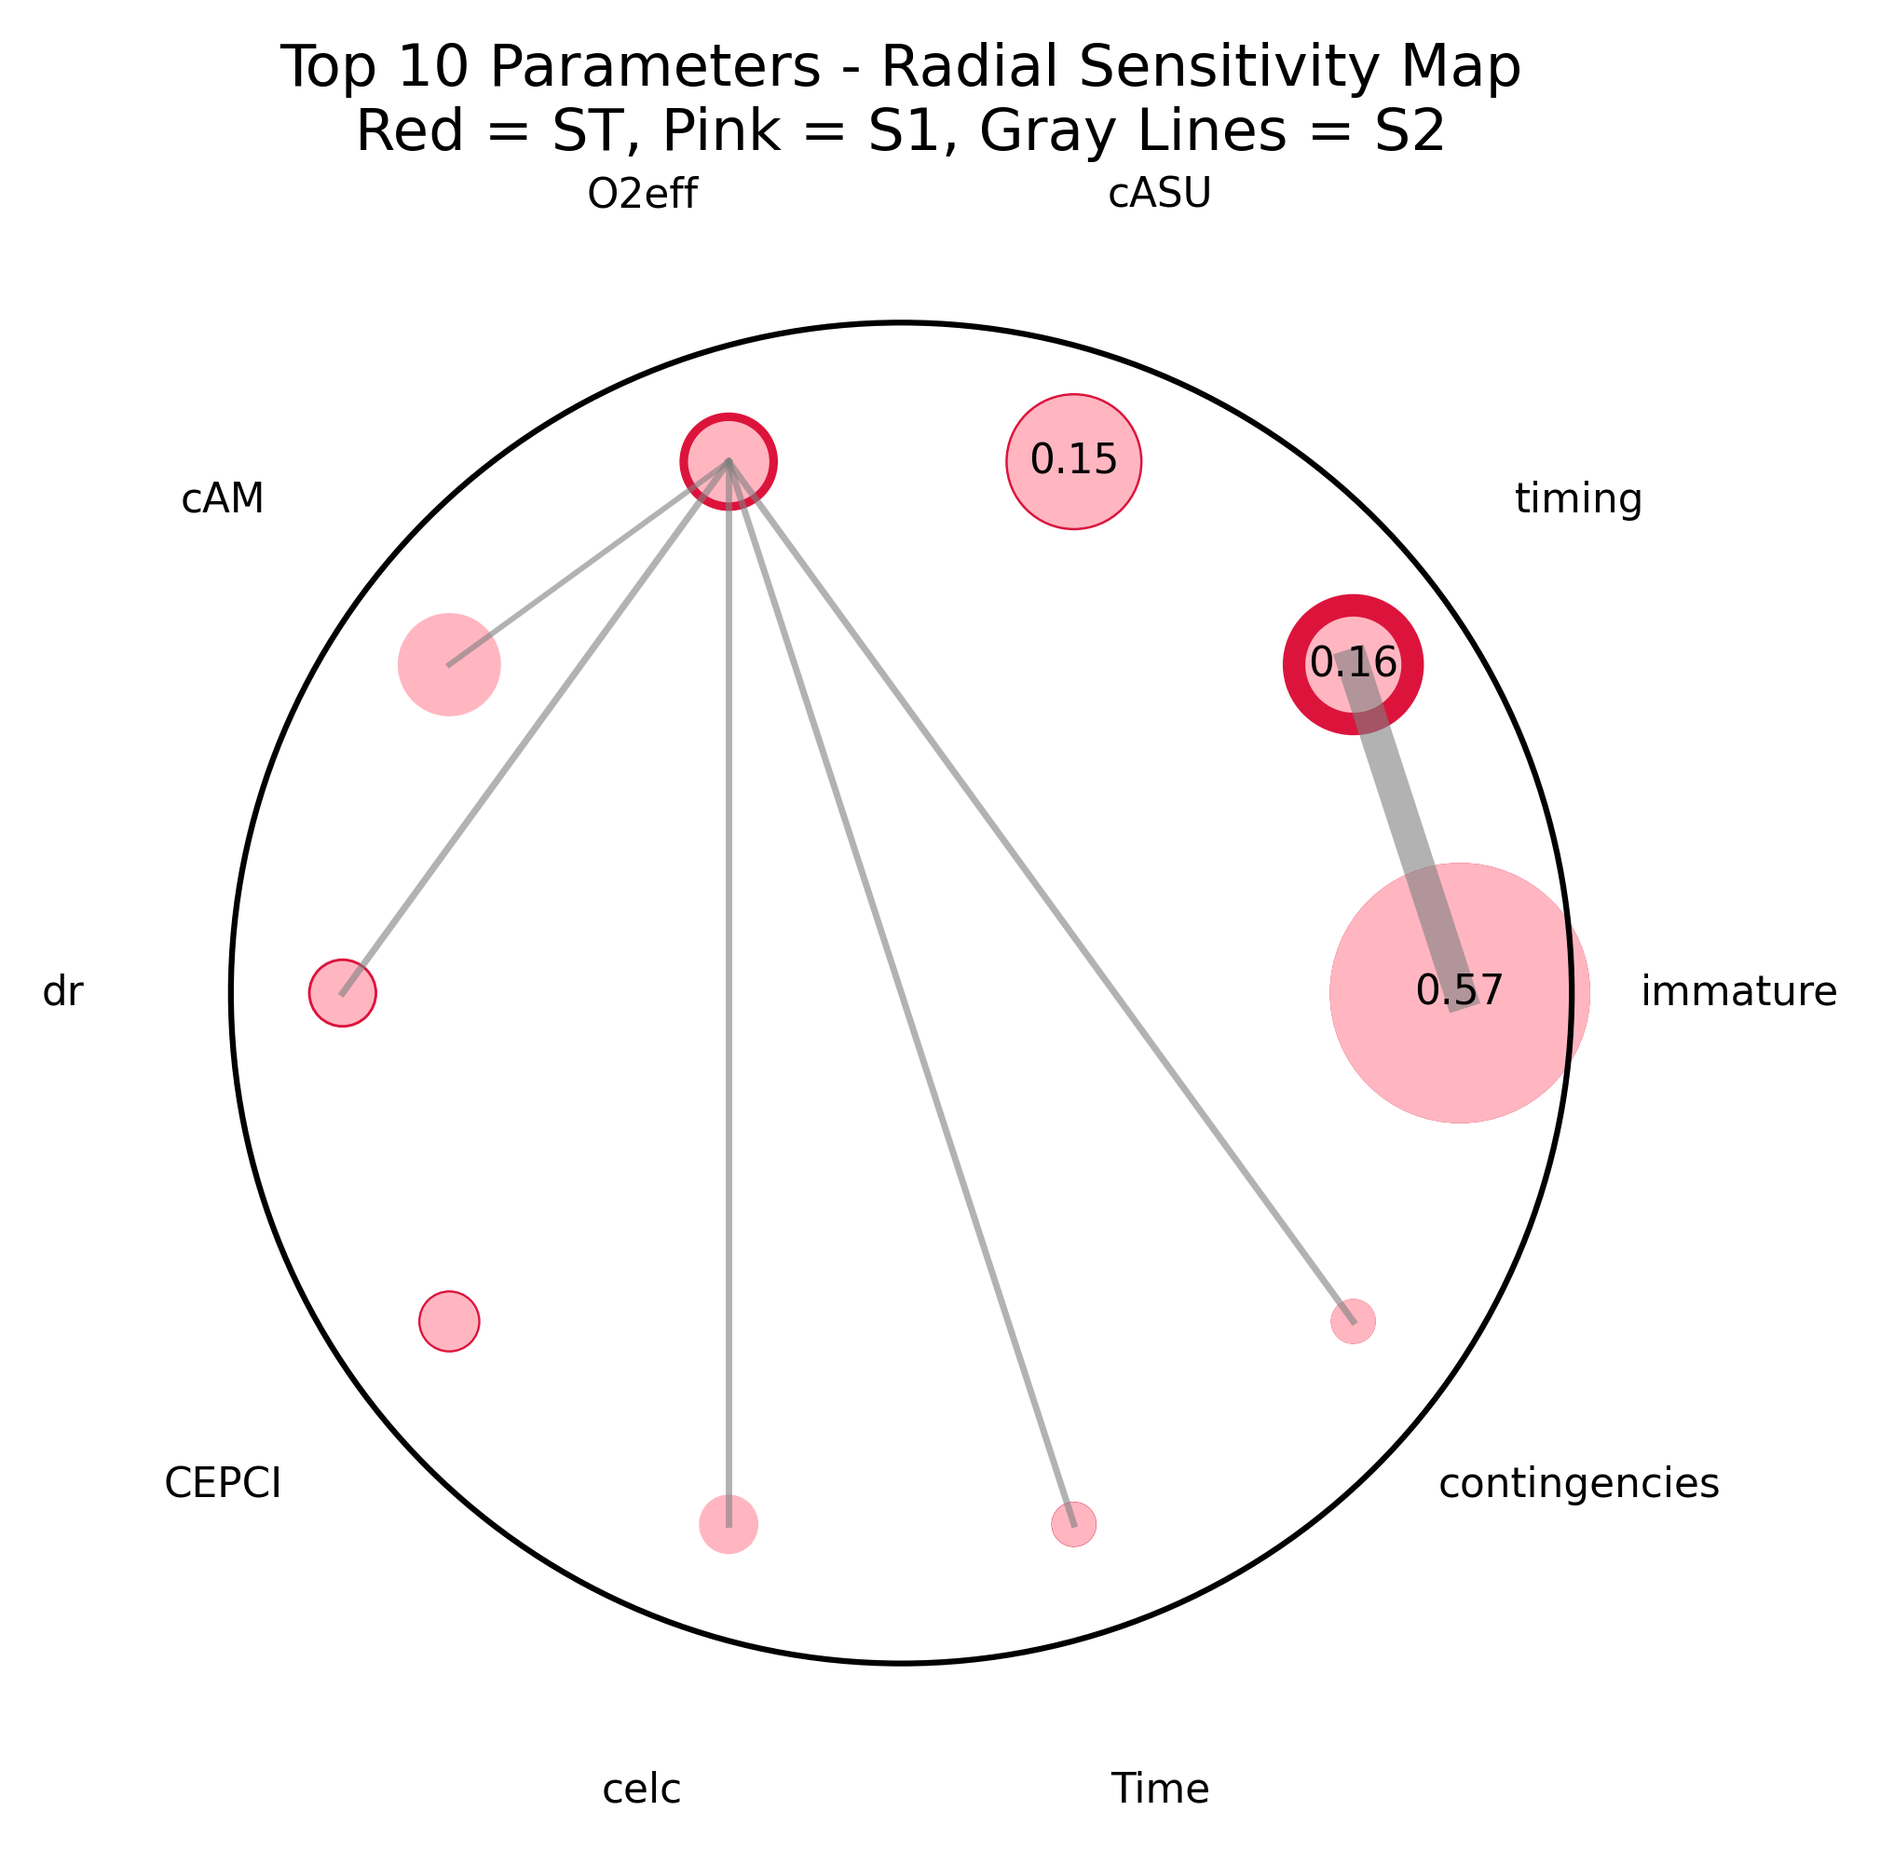
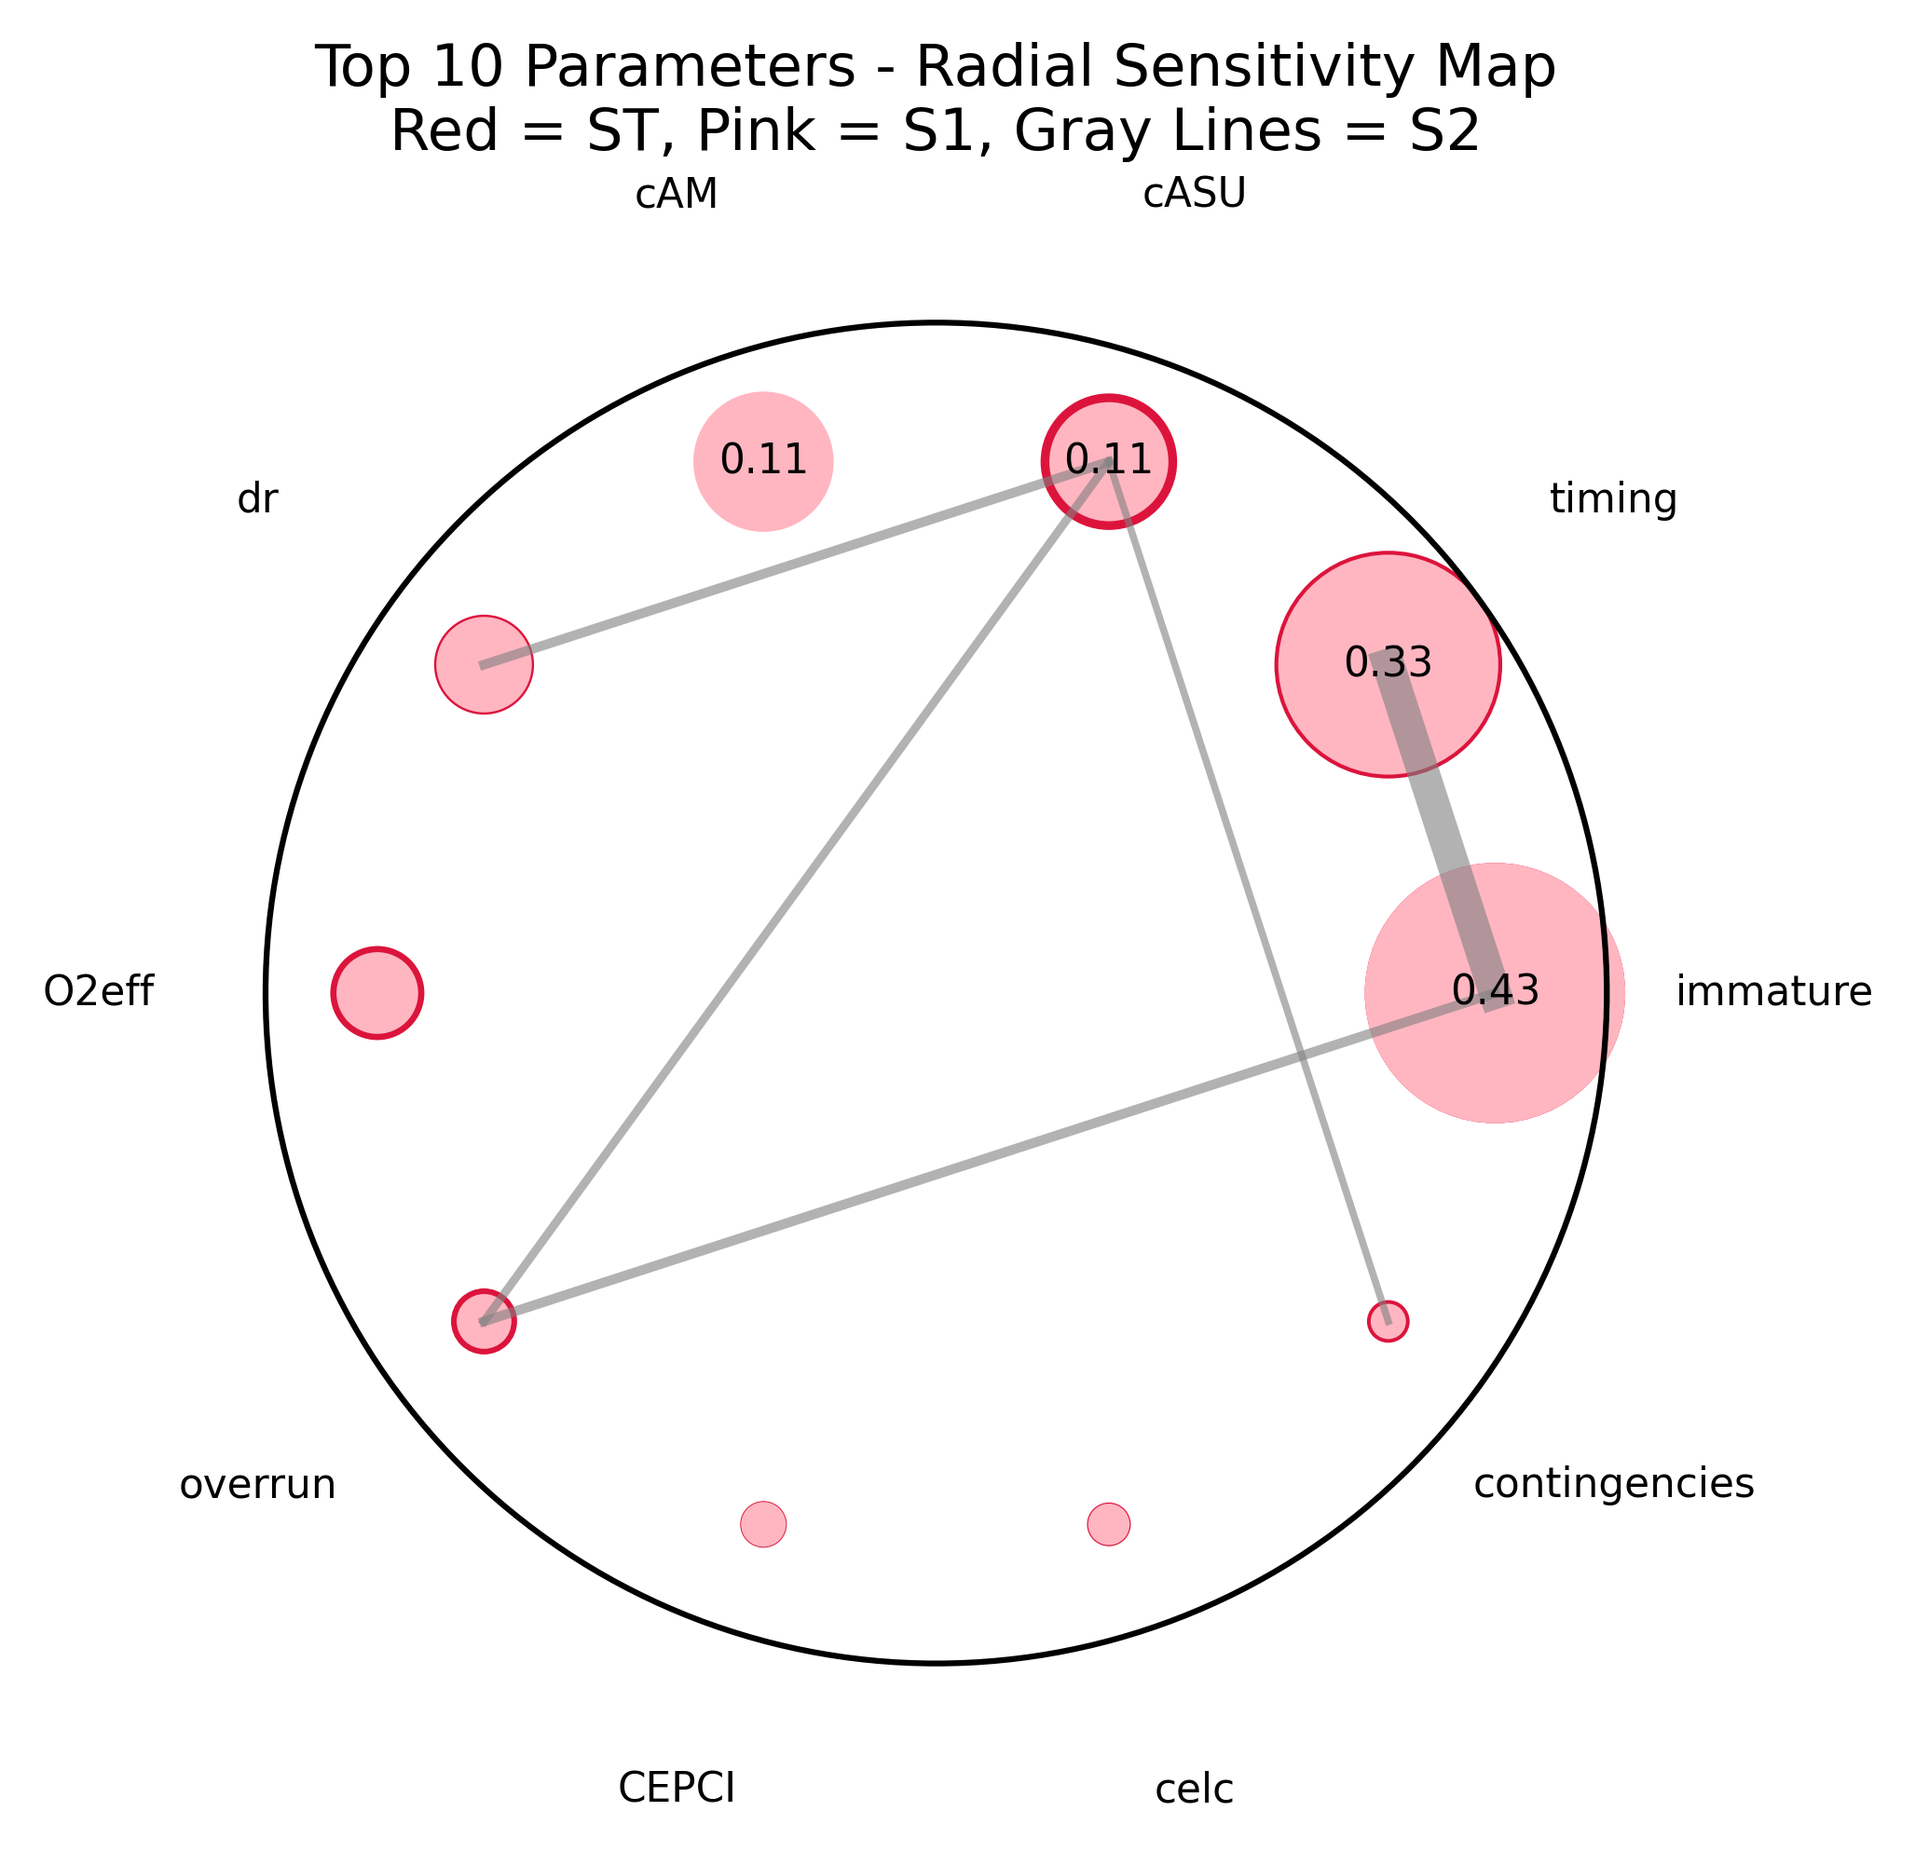
Updates

diff --git a/model.py b/model.py
@@ -112,6 +112,7 @@ def regret_BECCS(
     Qfgc = 33.3
     Qcond = 106.6
     Qnet = Qcond + Qfgc
+    O2excess = 1.1 #Leckner, 2023
 
     mfuel = Qfuel/LHV           #[kgf/s]
     memitted = 1.0105 * mfuel   #[kgCO2/s]
@@ -152,11 +153,11 @@ def regret_BECCS(
 
     mCO2 = 1.0105 * mfuel               #[kgCO2/s]
     mH2O = 0.7416 * mfuel               #[kgH2O/s]
-    mfluegas = mCO2 + mH2O + O2oxy*32   #[kg/s], inside the post-oxidation chamber (incl. O2oxy)
+    mfluegas = mCO2 + mH2O + O2oxy*32*O2excess   #[kg/s], inside the post-oxidation chamber (incl. O2oxy)
     mash = 0.01375*mfuel + 1/3600*Qfuel  #[kg/s], equals ash+OC massflows, 1 kgOC/MWh_bränsle - Magnus
 
     P = REF.P
-    Pasu = Wasu/1000*O2oxy*32           #[MW] 
+    Pasu = Wasu/1000*O2oxy*32*O2excess           #[MW] 
     Pnet = P - Pasu - Wcompr - Qcool
     mcaptured = mCO2 * rate             #[kgCO2/s], assuming some CO2 is just vented...
     memitted = mCO2 * (1-rate)
@@ -170,7 +171,7 @@ def regret_BECCS(
 
     # Determining oxyfuel energy balance
     P = REF.P
-    Pasu = Wasu/1000*O2demand*32        #[MW], Macroscopic? Or from Anders maybe?
+    Pasu = Wasu/1000*O2demand*32*O2excess        #[MW], Macroscopic? Or from Anders maybe?
     Pnet = P - Pasu - Wcompr - Qcool
     mcaptured = mCO2 * rate             #[kgCO2/s], assuming some CO2 is just vented...
     memitted = mCO2 * (1-rate)
@@ -184,13 +185,14 @@ def regret_BECCS(
     REF.shopping_list = {
     }
     AMINE.shopping_list = {
-        'amines' : cAM * AMINE.mcaptured/16.6, # assuming a linear relationship between mcaptured and CAPEX... Let's remove the CL capex cost:
-    }
+        'amines' : cAM * AMINE.mcaptured/16.6 * CEPCI/550 *1.3, # Check EXCEL for AMINE assumptions. Assuming a linear relationship between mcaptured and CAPEX... Let's remove the CL capex cost:
+    } # NOTE: This capex is high and will affect the results
+
     CLC.shopping_list = {
         'FR' : 4.98*(Afr/1531)**cFR*usd * CEPCI/585.7 *1.4, # constants are "installation factors" from Macroscopic
         'cyclone' : 0.345*( 3 )*usd * CEPCI/576.1 *1.4, 
         'POC' : ( 48.67*10**-6*(CLC.mfluegas) * (1 + np.exp(0.018*(850+273.15)-26.4)) * 1/(0.995-0.98) )*usd * CEPCI/585.7 *1.3, #NOTE: low cost, but I double checked this now!
-        'ASU' : 0.02*(59)**0.067/((1-0.95)**0.073) * (O2oxy*1000*3600/453.592)**cASU *usd * CEPCI/499.6 *1.3,
+        'ASU' : 0.02*(59)**0.067/((1-0.95)**0.073) * (O2oxy*O2excess*1000*3600/453.592)**cASU *usd * CEPCI/499.6 *1.3,
         'OCash' : (4.6*(mash/6.7)**0.56)*usd * CEPCI/603.1 *1.2,
         'CL' : ccond * mcaptured/37.31 * CEPCI/607.5 *1.3,  #Assuming that Deng had cost year = 2019 NOTE: unclear if installation 1.3 should be included or not? NOTE: Kjästad estimates CL cost in SKEPPKOSTNAD excel?
         'interim' : (53000+2400*(4000)**0.6 )*10**-6 *usd * CEPCI/499.6 *1.2, #Function from Judit, 4000m3 from Ramboll, CEPCI from Google
@@ -201,7 +203,7 @@ def regret_BECCS(
     # print("Sum of CLC CAPEX: ", sum(CLC.shopping_list.values()))    
 
     OXY.shopping_list = {
-        'ASU' : 0.02*(59)**0.067/((1-0.95)**0.073) * (O2demand*1000*3600/453.592)**cASU *usd * CEPCI/499.6 *1.3,
+        'ASU' : 0.02*(59)**0.067/((1-0.95)**0.073) * (O2demand*O2excess*1000*3600/453.592)**cASU *usd * CEPCI/499.6 *1.3,
         'CL' : ccond * mcaptured/37.31 * CEPCI/607.5 *1.3,  
         'interim' : (53000+2400*(4000)**0.6 )*10**-6 *usd * CEPCI/499.6 *1.2,  
     }
@@ -213,14 +215,14 @@ def regret_BECCS(
     # Escalating CAPEX of CLC and OXY
     # initial_items = ['FR', 'cyclone', 'OCash',]
     # delayed_items = ['CL', 'POC', 'ASU', 'interim']
-    initial_items = []
+    # initial_items = []
     delayed_items = ['FR', 'cyclone', 'OCash', 'CL', 'POC', 'ASU', 'interim', 'HEX']
 
-    BEC =  sum(value for key, value in CLC.shopping_list.items() if key in initial_items)
-    EPCC = BEC*(1 + EPC) # To harmonize with Ramboll amine costs
-    TPC = EPCC*(1 + contingencies) # Applying Ramboll's logic
-    TOC = TPC*(1 + ownercost)
-    CLC.CAPEX_initial = TOC*(1 + immature)*(1 + overrun)
+    # BEC =  sum(value for key, value in CLC.shopping_list.items() if key in initial_items)
+    # EPCC = BEC*(1 + EPC) # To harmonize with Ramboll amine costs
+    # TPC = EPCC*(1 + contingencies) # Applying Ramboll's logic
+    # TOC = TPC*(1 + ownercost)
+    # CLC.CAPEX_initial = TOC*(1 + immature)*(1 + overrun)
 
     BEC =  sum(value for key, value in CLC.shopping_list.items() if key in delayed_items)
     EPCC = BEC*(1 + EPC)
@@ -233,17 +235,17 @@ def regret_BECCS(
     TPC = EPCC*(1 + contingencies) # Applying Ramboll's logic
     OXY.CAPEX = TPC*(1 + ownercost)*(1 + overrun)
 
-    # Calculate CO2 capture costs for a reality check:
-    CRF = (1+dr)**lifetime * dr / ((1+dr)**lifetime - 1)
-    # CAC = CAPEX/tCO2 + OPEXE + OPEXvar + OPEXfix + TS
-    for TECH in [AMINE, OXY, CLC]:
-        CAC = (TECH.CAPEX*CRF + opfix)*10**6 / (TECH.mcaptured / 1000 * 3600 * TECH.operating) + (ctrans + cstore) #Simplified, without OPEXe and OPEXvar
-        print(f"{TECH.name}: {CAC:.2f} EUR/tCO2")
-        print(TECH.CAPEX*CRF *10**6/ (TECH.mcaptured / 1000 * 3600 * TECH.operating) )
-        print(opfix *10**6 / (TECH.mcaptured / 1000 * 3600 * TECH.operating) )
-        print(opfix/TECH.CAPEX, " here")
-        print(ctrans)
-        print(cstore)
+    # # Calculate CO2 capture costs for a reality check:
+    # CRF = (1+dr)**lifetime * dr / ((1+dr)**lifetime - 1)
+    # # CAC = CAPEX/tCO2 + OPEXE + OPEXvar + OPEXfix + TS
+    # for TECH in [AMINE, OXY, CLC]:
+    #     CAC = (TECH.CAPEX*CRF + opfix)*10**6 / (TECH.mcaptured / 1000 * 3600 * TECH.operating) + (ctrans + cstore) #Simplified, without OPEXe and OPEXvar
+    #     print(f"{TECH.name}: {CAC:.2f} EUR/tCO2")
+    #     print(TECH.CAPEX*CRF *10**6/ (TECH.mcaptured / 1000 * 3600 * TECH.operating) )
+    #     print(opfix *10**6 / (TECH.mcaptured / 1000 * 3600 * TECH.operating) )
+    #     print(opfix/TECH.CAPEX, " here")
+    #     print(ctrans)
+    #     print(cstore)
     
     def calculate_NPV(TECH, cbio, celc, ETS, crc):
         analysis_period = timing + lifetime  # Example: invest after 5, lifetime of 25 => 30 years

diff --git a/eon_ref.py b/eon_ref.py
@@ -67,9 +67,11 @@ def main():
     
     # Customize the plot
     plt.xlabel('Energy Price Ratio (celc/cbio)', fontsize=12)
-    plt.ylabel('npv_ref (million EUR)', fontsize=12)
+    # plt.ylabel('npv_ref (million EUR)', fontsize=12)
     plt.title('Impact of Energy Price Ratio on npv_ref', fontsize=14)
     plt.grid(True, alpha=0.3)
+    plt.tick_params(axis='y', labelsize=14)
+    plt.tick_params(axis='x', labelsize=14)
 
     # Create the second scatter plot: price ratio vs npv_ref
     plt.subplot(1, 3, 2)
@@ -81,9 +83,11 @@ def main():
     
     # Customize the plot
     plt.xlabel('Energy Price Ratio (celc/cbio)', fontsize=12)
-    plt.ylabel('npv_amine (million EUR)', fontsize=12)
+    # plt.ylabel('npv_amine (million EUR)', fontsize=12)
     plt.title('Impact of Energy Price Ratio on npv_amine', fontsize=14)
     plt.grid(True, alpha=0.3)
+    plt.tick_params(axis='y', labelsize=14)
+    plt.tick_params(axis='x', labelsize=14)
     
     # Create the third scatter plot: price ratio vs regret_1
     plt.subplot(1, 3, 3)
@@ -95,10 +99,11 @@ def main():
     
     # Customize the plot
     plt.xlabel('Energy Price Ratio (celc/cbio)', fontsize=12)
-    plt.ylabel('regret_1 (million EUR)', fontsize=12)
+    # plt.ylabel('regret_1 (million EUR)', fontsize=12)
     plt.title('Impact of Energy Price Ratio on regret_1', fontsize=14)
     plt.grid(True, alpha=0.3)
-    
+    plt.tick_params(axis='y', labelsize=14)
+    plt.tick_params(axis='x', labelsize=14)
     plt.tight_layout()
     
     # Save the plots
@@ -136,7 +141,7 @@ def main():
         patch.set_facecolor(color)
     
     # Customize the plot
-    plt.ylabel('npv_ref (million EUR)', fontsize=12)
+    # plt.ylabel('npv_ref (million EUR)', fontsize=12)
     plt.title('Distribution of npv_ref by Energy Price Ratio (celc/cbio) Ranges', fontsize=14)
     plt.grid(True, alpha=0.3, axis='y')
     
@@ -159,7 +164,7 @@ def main():
         patch.set_facecolor(color)
     
     # Customize the plot
-    plt.ylabel('npv_amine (million EUR)', fontsize=12)
+    # plt.ylabel('npv_amine (million EUR)', fontsize=12)
     plt.title('Distribution of npv_amine by Energy Price Ratio (celc/cbio) Ranges', fontsize=14)
     plt.grid(True, alpha=0.3, axis='y')
     
@@ -199,7 +204,7 @@ def main():
         median.set_linewidth(2)
     
     # Customize the plot
-    plt.ylabel('regret_1 (million EUR)', fontsize=12)
+    # plt.ylabel('regret_1 (million EUR)', fontsize=12)
     plt.title('Distribution of regret_1 by Energy Price Ratio (celc/cbio) Ranges\n(Colored by density of positive regret)', fontsize=14)
     plt.grid(True, alpha=0.3, axis='y')
     
@@ -211,7 +216,7 @@ def main():
     print("Box plots saved as 'npv_distribution_by_ratio_ranges.png'")
     
     # Save the regret box plot separately
-    plt.savefig('regret_box.png', dpi=600, bbox_inches='tight')
+    plt.savefig('regret_box.png', dpi=400, bbox_inches='tight')
     print("Regret box plot saved as 'regret_box.png'")
     
     

diff --git a/controller.py b/controller.py
@@ -35,16 +35,16 @@ model.uncertainties = [
     RealParameter("celc", 10, 100),         # Beiron tycker 100?
     RealParameter("cheat", 0.50, 0.95),
     RealParameter("cbio", 20, 100),         # BEIRON, insikter
-    RealParameter("CEPCI", 700, 900),
+    RealParameter("CEPCI", 750, 950),
     # RealParameter("sek", 0.08, 0.10),
     # RealParameter("usd", 0.90, 1.00),
     RealParameter("ctrans", 52, 70),        # EUR/tCO2, Kjärstad  450nm, INCLUDES C&L???
     RealParameter("cstore", 12, 16),        # EUR/tCO2, Kjärstad @NL, calculate by total_system - only_transport
-    RealParameter("crc", 25, 300),          # Reference cost
+    RealParameter("crc", 50, 400),          # 225-300 EUR/tCO2 around 2030-2035, Thinks Rufus.
     RealParameter("cmea", 2.2, 3.1),         # EUR/kg, Ramboll
     RealParameter("coc", 200, 600),         # EUR/t, Magnus/Felicia
 
-    RealParameter("cAM", 153, 230),       # +-20% of Ramboll CAPEX MEUR
+    RealParameter("cAM", 153, 230),       # BASIC, check EXCEL for assumptions.+-20% of Ramboll CAPEX MEUR
     RealParameter("cFR", 0.48, 0.72),       # +-20% of Macroscopic CAPEX exponent   
     RealParameter("cASU", 0.68, 1.02),      # +-20% of Macroscopic CAPEX exponent  
     RealParameter("ccond", 20, 30),      # MEUR/kgCO2/s Deng 2019
@@ -54,7 +54,7 @@ model.uncertainties = [
     RealParameter("contingencies", 0.15, 0.35), # Ramboll uses 25%
     RealParameter("ownercost", 0.03, 0.07),             # Ramboll uses 5%
     RealParameter("overrun", 0.00, 0.45),           #Beiron FOAK=NOAK costs
-    RealParameter("immature", 0.00, 3.00),       
+    RealParameter("immature", 0.00, 4.00),       
 
     RealParameter("EUA", 0, 10),    # +ETS increases
     RealParameter("ceiling", 200, 350),
@@ -277,11 +277,11 @@ subsets = {
     "All Data": outcomes_df,
     "High-regret": outcomes_df[
         ((outcomes_df["timing"] == 5) | (outcomes_df["timing"] == 10)) &
-        (outcomes_df["immature"] < 1.50)
+        (outcomes_df["immature"] < 2.0)
     ],
     "Low-regret": outcomes_df[
         ((outcomes_df["timing"] == 15) | (outcomes_df["timing"] == 20)) &
-        (outcomes_df["immature"] > 1.50)
+        (outcomes_df["immature"] > 2.0)
     ]
 }
 

diff --git a/controller_sobol.py b/controller_sobol.py
@@ -35,18 +35,18 @@ model.uncertainties = [
     RealParameter("celc", 10, 100),         # Beiron tycker 100?
     RealParameter("cheat", 0.50, 0.95),
     RealParameter("cbio", 20, 100),         # BEIRON, insikter
-    RealParameter("CEPCI", 700, 900),
+    RealParameter("CEPCI", 750, 950),
     # RealParameter("sek", 0.08, 0.10),
     # RealParameter("usd", 0.90, 1.00),
     RealParameter("ctrans", 52, 70),        # EUR/tCO2, Kjärstad  450nm, INCLUDES C&L???
     RealParameter("cstore", 12, 16),        # EUR/tCO2, Kjärstad @NL, calculate by total_system - only_transport
-    RealParameter("crc", 25, 300),          # Reference cost
+    RealParameter("crc", 50, 400),          # 225-300 EUR/tCO2 around 2030-2035, Thinks Rufus.
     RealParameter("cmea", 2.2, 3.1),         # EUR/kg, Ramboll
     RealParameter("coc", 200, 600),         # EUR/t, Magnus/Felicia
 
-    RealParameter("cAM", 153, 230),       # +-20% of Ramboll CAPEX MEUR
+    RealParameter("cAM", 153, 230),       # BASIC, check EXCEL for assumptions.+-20% of Ramboll CAPEX MEUR
     RealParameter("cFR", 0.48, 0.72),       # +-20% of Macroscopic CAPEX exponent   
-    RealParameter("cASU", 0.68, 1.02),      # +-20% of Macroscopic CAPEX exponent   
+    RealParameter("cASU", 0.68, 1.02),      # +-20% of Macroscopic CAPEX exponent  
     RealParameter("ccond", 20, 30),      # MEUR/kgCO2/s Deng 2019
     RealParameter("opfix", 3.6, 5.4),      # Ramboll 2023 MEUR/yr
 
@@ -54,7 +54,7 @@ model.uncertainties = [
     RealParameter("contingencies", 0.15, 0.35), # Ramboll uses 25%
     RealParameter("ownercost", 0.03, 0.07),             # Ramboll uses 5%
     RealParameter("overrun", 0.00, 0.45),           #Beiron FOAK=NOAK costs
-    RealParameter("immature", 0.00, 3.00),       
+    RealParameter("immature", 0.00, 4.00),       
 
     RealParameter("EUA", 0, 10),    # +ETS increases
     RealParameter("ceiling", 200, 350),
